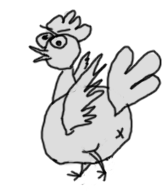
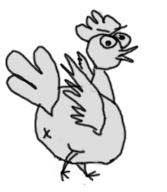
Changed movement

diff --git a/Assets/Scripts/PlayerMovement.cs b/Assets/Scripts/PlayerMovement.cs
@@ -5,16 +5,17 @@ using UnityEngine;
 public class PlayerMovement : MonoBehaviour
 {
     public float moveSpeed;
-    public Sprite[] leftRun, rightRun, forwardRun;
+    public Sprite[] leftRun, rightRun, forwardRun, backwardRun;
 
     Vector3 moveDiff;
-    int currentSprite = 0;
+    int currentFrame = 0;
     SpriteRenderer spriteRenderer;
     Bounds mapRectangle;
-    bool walksOnLeftFoot = true;
-
+    int[] currentFramess;
+    bool hasStartedCorountine = false;
     void Start()
     {
+        currentFramess = new int[4] { 0, 1, 0, 2 };
         spriteRenderer = Connector.player.GetComponent<SpriteRenderer>();
         mapRectangle = Connector.map.GetComponent<SpriteRenderer>().bounds;
     }
@@ -25,21 +26,26 @@ public class PlayerMovement : MonoBehaviour
 
         if (Input.GetKey(KeyCode.W))
         {
-            MovePlayer(ref forwardRun);
+            if (!hasStartedCorountine)
+                StartCoroutine(ChangeSprite(forwardRun[currentFramess[currentFrame]]));
             moveDiff.y+= 1;
         }
         if (Input.GetKey(KeyCode.S))
         {
+            if (!hasStartedCorountine)
+                StartCoroutine(ChangeSprite(backwardRun[currentFramess[currentFrame]]));
             moveDiff.y -= 1;
         }
         if (Input.GetKey(KeyCode.A))
         {
-            MovePlayer(ref leftRun);
+            if (!hasStartedCorountine)
+                StartCoroutine(ChangeSprite(leftRun[currentFramess[currentFrame]]));
             moveDiff.x -= 1;
         }
         if (Input.GetKey(KeyCode.D))
         {
-            MovePlayer(ref rightRun);
+            if (!hasStartedCorountine)
+                StartCoroutine(ChangeSprite(rightRun[currentFramess[currentFrame]]));
             moveDiff.x += 1;
         }
 
@@ -58,31 +64,13 @@ public class PlayerMovement : MonoBehaviour
     IEnumerator ChangeSprite(Sprite sprite)
     {
         spriteRenderer.sprite = sprite;
-        yield return new WaitForSeconds(0.01f);
-    }
-
-    void MovePlayer(ref Sprite[] move)
-    {
-        StartCoroutine(ChangeSprite(move[currentSprite]));
-
-        if (walksOnLeftFoot)
+        hasStartedCorountine = true;
+        yield return new WaitForSeconds(0.1f);
+        currentFrame++;
+        if (currentFrame > 3)
         {
-            currentSprite += 1;
+            currentFrame = 0;
         }
-        else
-        {
-            currentSprite = 3;
-        }
-
-        if (currentSprite == 3)
-        {
-            currentSprite = 0;
-            walksOnLeftFoot = true;
-        }
-        else if (currentSprite == 2 && walksOnLeftFoot)
-        {
-            currentSprite = 0;
-            walksOnLeftFoot = false;
-        }
+        hasStartedCorountine = false;
     }
 }
